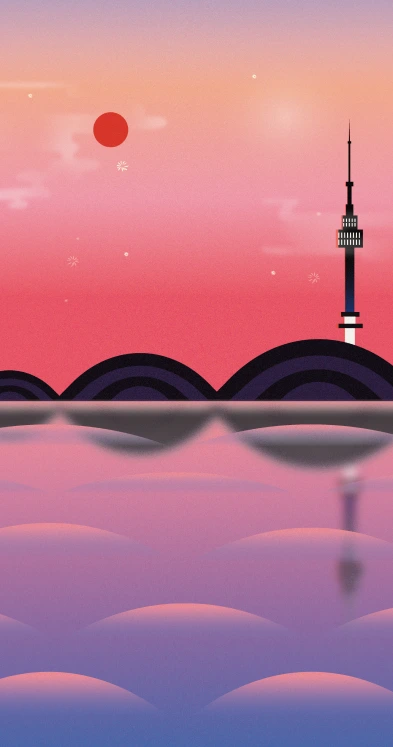
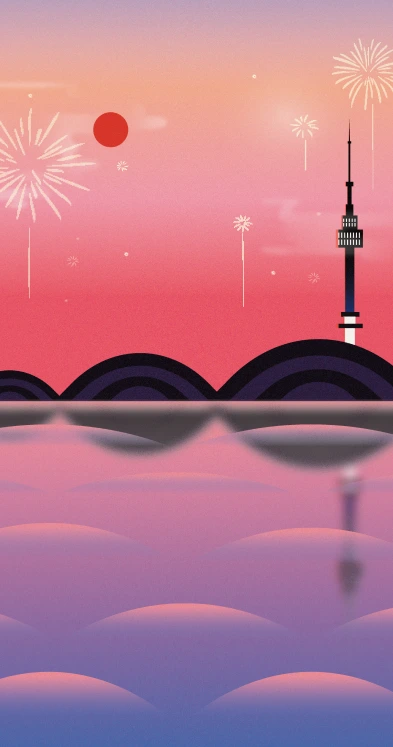
[Fix/#121] 새해 랜딩 배경 이미지 교체 및 사용 방법 클릭 시 토스트 띄우기 (#122)
* fix: 새해 랜딩 배경화면 이미지 수정

* refactor: 사용 방법 클릭 시 토스트 띄우기

diff --git a/src/components/ui/sidebar.tsx b/src/components/ui/sidebar.tsx
@@ -11,6 +11,7 @@ import SignOutIcon from "@/assets/ic_sign_out.svg?react";
 import XIcon from "@/assets/ic_x.svg?react";
 import { Alert } from "@/components/ui/alert";
 import { useAuthStore } from "@/stores/useAuthStore";
+import { Toast } from "@/components/ui/toast";
 
 interface SidebarProps {
   nickname?: string;
@@ -24,6 +25,7 @@ export function Sidebar({
   shareUri,
 }: SidebarProps) {
   const [showLogoutAlert, setShowLogoutAlert] = useState(false);
+  const [showUpdateToast, setShowUpdateToast] = useState(false);
   const {
     isLoggedIn,
     isCheckingAuth,
@@ -71,6 +73,10 @@ export function Sidebar({
     navigate("/user/profile");
   };
 
+  const handleUserGuide = () => {
+    setShowUpdateToast(true);
+  };
+  
   const handleNavigateInquiry = () => {
     navigate("/user/inquiry");
   };
@@ -203,13 +209,19 @@ export function Sidebar({
             </div>
             <div className="h-0 w-60 outline outline-[#E6E6E6] outline-offset-[-0.50px]" />
             <div className="flex h-12 items-center gap-3 overflow-hidden py-2">
-              <div className="relative h-10 w-10">
-                <div className="h-10 w-10 rounded-full bg-red-900/5 backdrop-blur-[9.75px]" />
-                <QusetionIcon className="absolute top-[10px] left-[10px] h-5 w-5" />
-              </div>
-              <div className="font-semibold text-base text-black leading-snug tracking-wide">
-                사용 방법
-              </div>
+              <button
+              type="button"
+              onClick={handleUserGuide}
+              className="flex h-12 w-full items-center gap-3 overflow-hidden py-2 text-left transition-colors hover:bg-neutral-200"
+              >
+                <div className="relative h-10 w-10">
+                  <div className="h-10 w-10 rounded-full bg-red-900/5 backdrop-blur-[9.75px]" />
+                  <QusetionIcon className="absolute top-[10px] left-[10px] h-5 w-5" />
+                </div>
+                <div className="font-semibold text-base text-black leading-snug tracking-wide">
+                  사용 방법
+                </div>
+              </button>
             </div>
             <div className="flex flex-col">
               <button
@@ -257,6 +269,12 @@ export function Sidebar({
         leftButtonText="취소"
         rightButtonText="로그아웃"
         content="로그아웃하시겠습니까?"
+      />
+
+      <Toast
+        message="추후 업데이트 예정입니다"
+        isOpen={showUpdateToast}
+        onClose={() => setShowUpdateToast(false)}
       />
     </div>
   );
